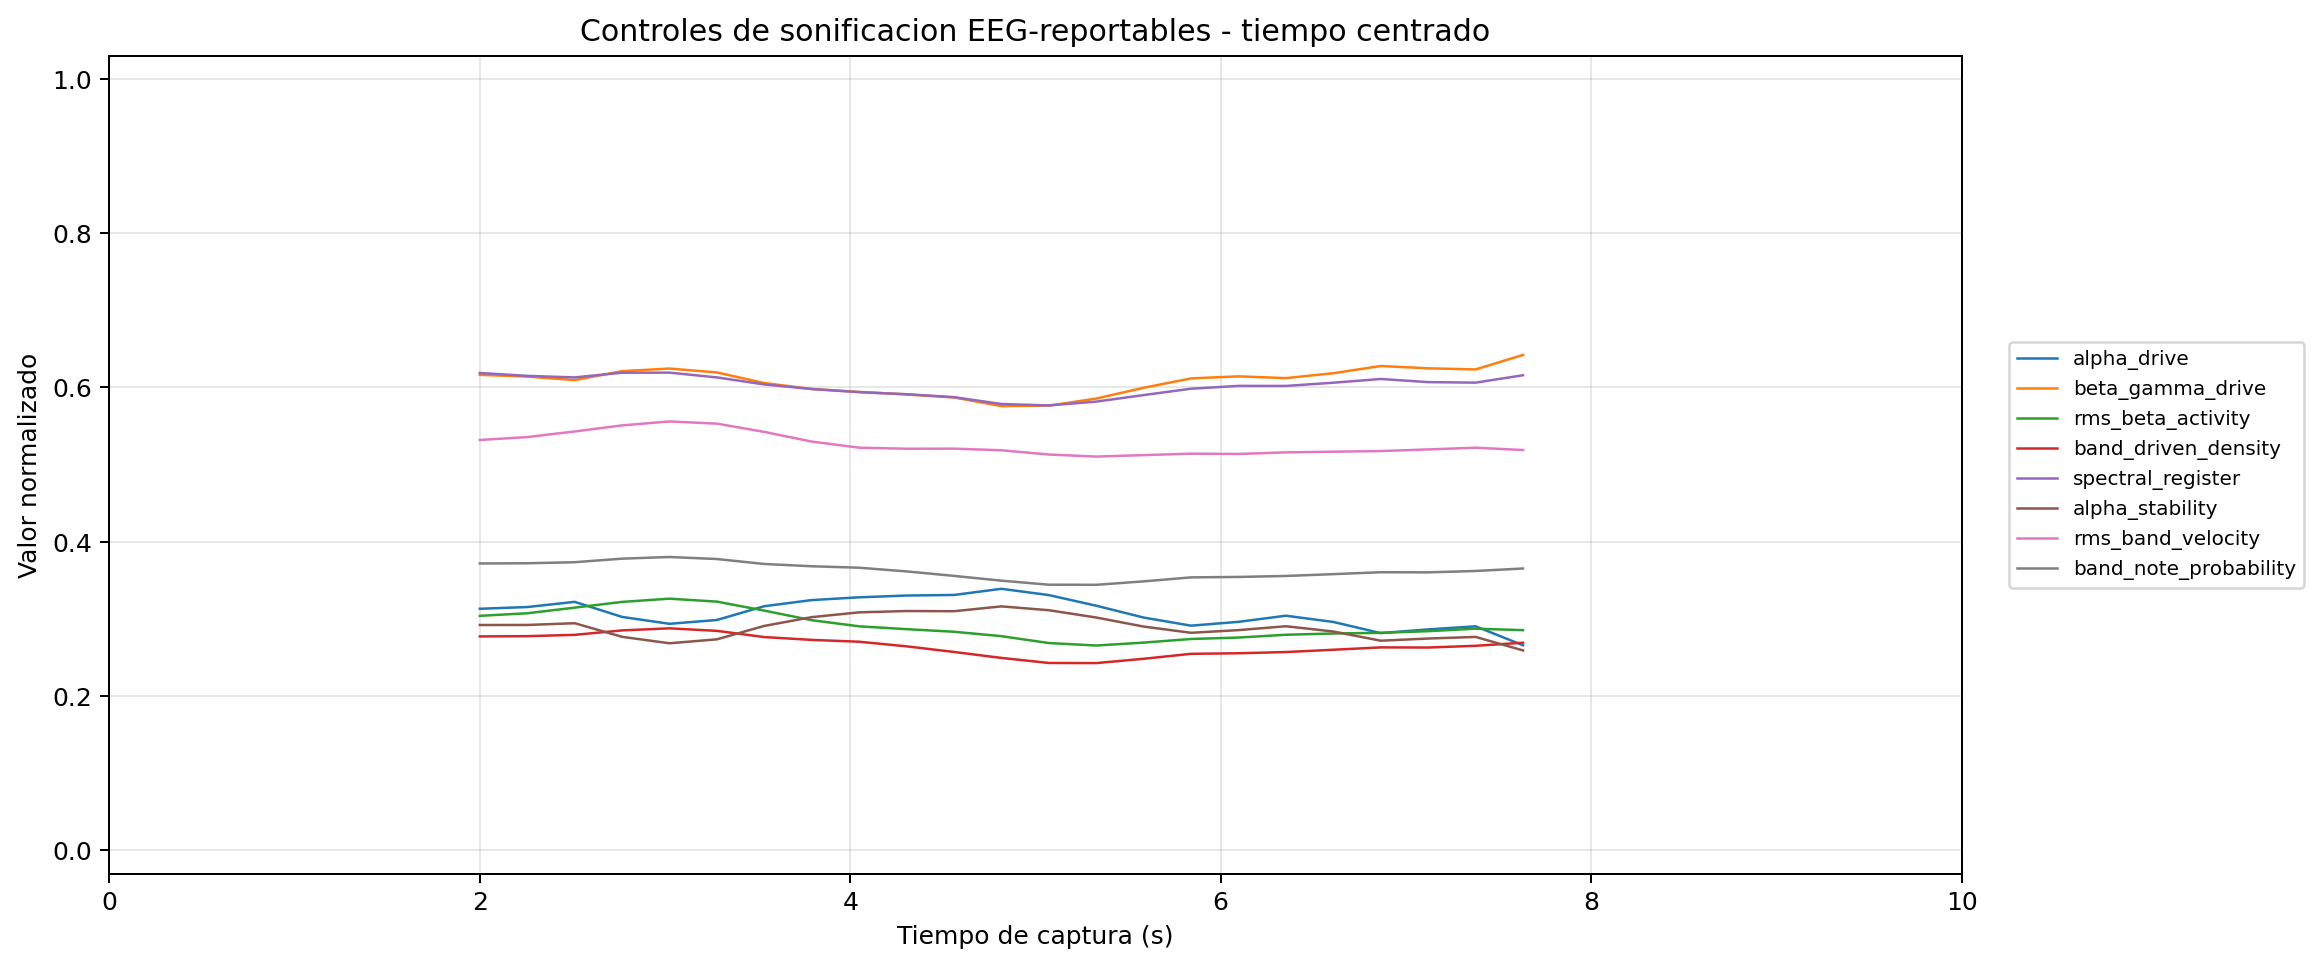
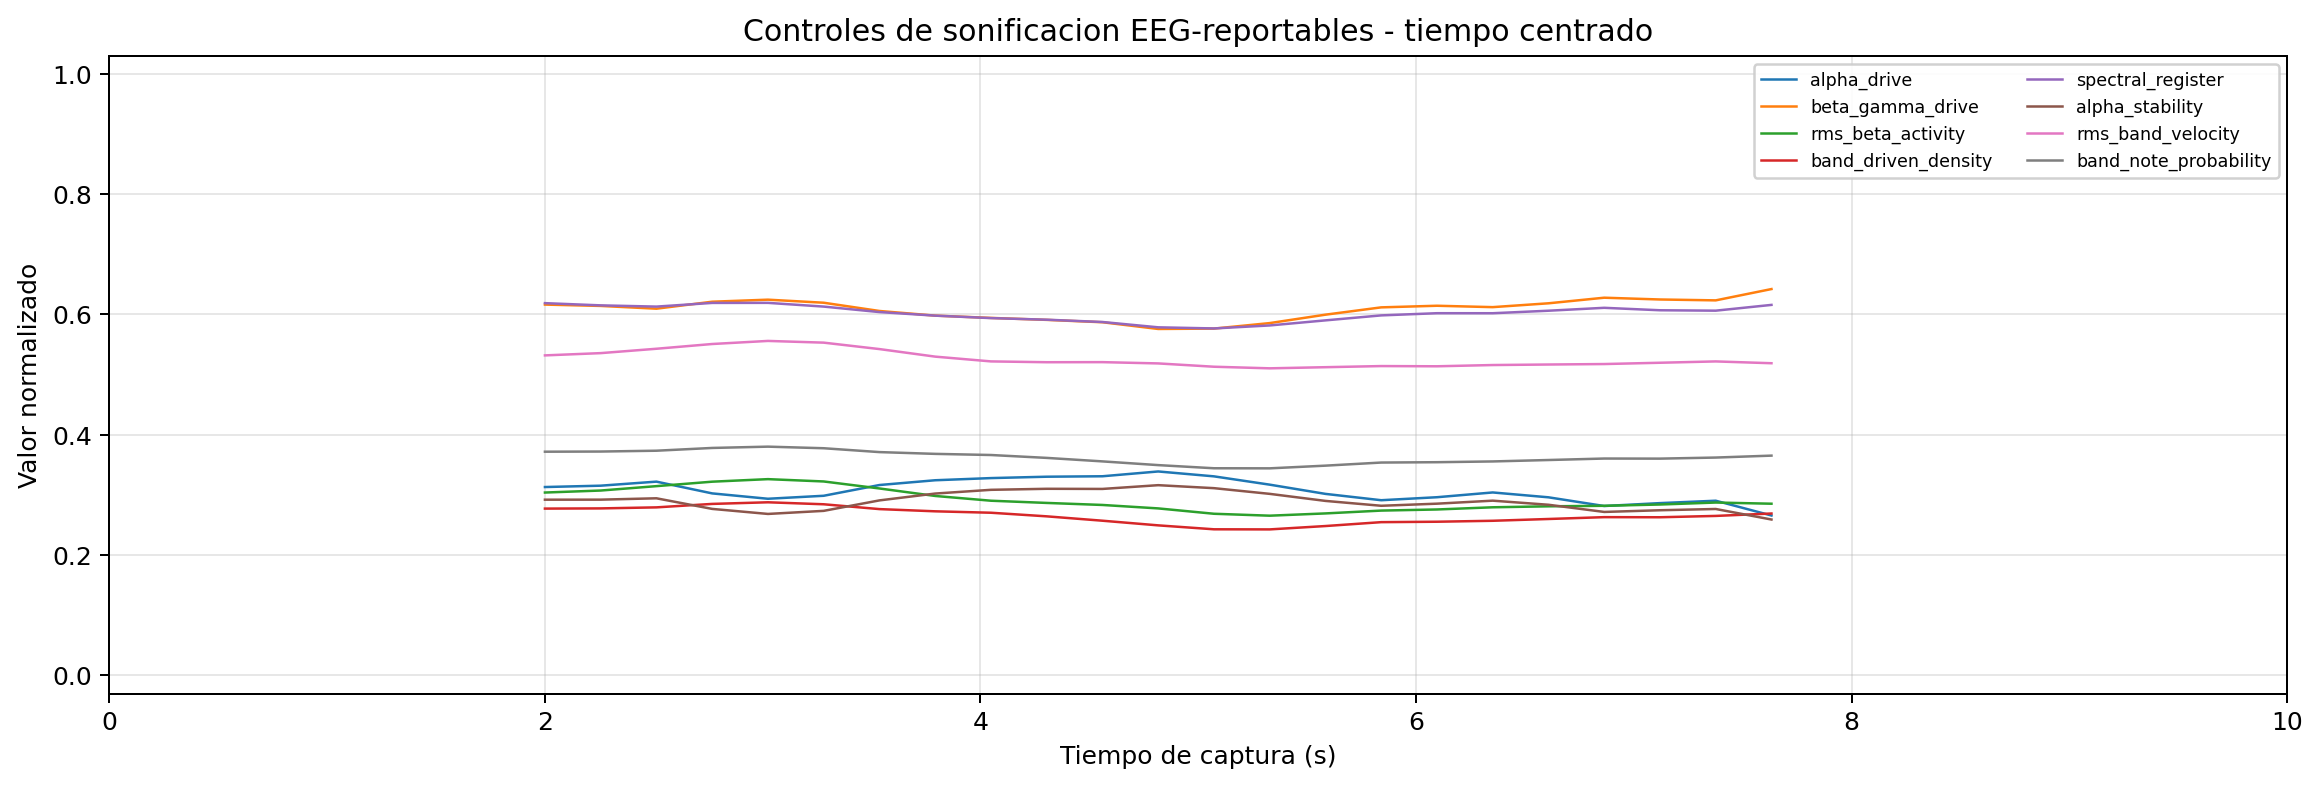
Regenerate final capture plots with signal quality figures

diff --git a/docs/validacion_tfg/capturas_finales_s01_20260528_matplotlib/20260528-145809_s01_20260528_ear_eeg_ch1_only_06_eyes_open_repeat_30s.md b/docs/validacion_tfg/capturas_finales_s01_20260528_matplotlib/20260528-145809_s01_20260528_ear_eeg_ch1_only_06_eyes_open_repeat_30s.md
@@ -1,4 +1,4 @@
-# Captura final: `eyes_open_repeat_30s`
+# Captura final: `eyes_open_repeat_30s`
 
 ## 1. Identificacion
 
@@ -25,13 +25,15 @@
 
 Nota: las figuras EEG temporales estandar usan escala fija `±400 uV` para facilitar la inspeccion visual. Los transitorios completos se conservan en las metricas de calidad y, cuando procede, en las figuras enhanced.
 
-![EEG temporal](../figures/capturas_finales_s01_20260528_matplotlib/20260528-145809_s01_20260528_ear_eeg_ch1_only_06_eyes_open_repeat_30s/eeg_ch1_temporal.png)
+![EEG temporal](docs/validacion_tfg/figures/capturas_finales_s01_20260528_matplotlib/20260528-145809_s01_20260528_ear_eeg_ch1_only_06_eyes_open_repeat_30s/eeg_ch1_temporal.png)
 
-![Bandpowers relativos](../figures/capturas_finales_s01_20260528_matplotlib/20260528-145809_s01_20260528_ear_eeg_ch1_only_06_eyes_open_repeat_30s/bandpowers_relativos.png)
+![Bandpowers relativos](docs/validacion_tfg/figures/capturas_finales_s01_20260528_matplotlib/20260528-145809_s01_20260528_ear_eeg_ch1_only_06_eyes_open_repeat_30s/bandpowers_relativos.png)
 
-![Controles de sonificacion](../figures/capturas_finales_s01_20260528_matplotlib/20260528-145809_s01_20260528_ear_eeg_ch1_only_06_eyes_open_repeat_30s/controles_sonificacion.png)
+![Controles de sonificacion](docs/validacion_tfg/figures/capturas_finales_s01_20260528_matplotlib/20260528-145809_s01_20260528_ear_eeg_ch1_only_06_eyes_open_repeat_30s/controles_sonificacion.png)
 
-![Notas musicales](../figures/capturas_finales_s01_20260528_matplotlib/20260528-145809_s01_20260528_ear_eeg_ch1_only_06_eyes_open_repeat_30s/notas_musicales.png)
+![Calidad de senal y gate](docs/validacion_tfg/figures/capturas_finales_s01_20260528_matplotlib/20260528-145809_s01_20260528_ear_eeg_ch1_only_06_eyes_open_repeat_30s/calidad_senal_quality_gate.png)
+
+![Notas musicales](docs/validacion_tfg/figures/capturas_finales_s01_20260528_matplotlib/20260528-145809_s01_20260528_ear_eeg_ch1_only_06_eyes_open_repeat_30s/notas_musicales.png)
 
 ## 4. Datos musicales
 
@@ -57,4 +59,3 @@ Nota: las figuras EEG temporales estandar usan escala fija `±400 uV` para facil
 ## 6. Interpretacion para el TFG
 
 Candidata principal de la sesion final por ser la condicion con mejor diagnostico automatico y sonificacion persistida. La figura combinada se conserva como PNG, pero este documento automatico evita repetirla porque las graficas ya aparecen por separado.
-

diff --git a/docs/validacion_tfg/capturas_finales_s01_20260528_matplotlib/20260528-145041_s01_20260528_ear_eeg_ch1_only_01_eyes_open_rest_60s.md b/docs/validacion_tfg/capturas_finales_s01_20260528_matplotlib/20260528-145041_s01_20260528_ear_eeg_ch1_only_01_eyes_open_rest_60s.md
@@ -1,4 +1,4 @@
-# Captura final: `eyes_open_rest_60s`
+# Captura final: `eyes_open_rest_60s`
 
 ## 1. Identificacion
 
@@ -25,13 +25,15 @@
 
 Nota: las figuras EEG temporales estandar usan escala fija `±400 uV` para facilitar la inspeccion visual. Los transitorios completos se conservan en las metricas de calidad y, cuando procede, en las figuras enhanced.
 
-![EEG temporal](../figures/capturas_finales_s01_20260528_matplotlib/20260528-145041_s01_20260528_ear_eeg_ch1_only_01_eyes_open_rest_60s/eeg_ch1_temporal.png)
+![EEG temporal](docs/validacion_tfg/figures/capturas_finales_s01_20260528_matplotlib/20260528-145041_s01_20260528_ear_eeg_ch1_only_01_eyes_open_rest_60s/eeg_ch1_temporal.png)
 
-![Bandpowers relativos](../figures/capturas_finales_s01_20260528_matplotlib/20260528-145041_s01_20260528_ear_eeg_ch1_only_01_eyes_open_rest_60s/bandpowers_relativos.png)
+![Bandpowers relativos](docs/validacion_tfg/figures/capturas_finales_s01_20260528_matplotlib/20260528-145041_s01_20260528_ear_eeg_ch1_only_01_eyes_open_rest_60s/bandpowers_relativos.png)
 
-![Controles de sonificacion](../figures/capturas_finales_s01_20260528_matplotlib/20260528-145041_s01_20260528_ear_eeg_ch1_only_01_eyes_open_rest_60s/controles_sonificacion.png)
+![Controles de sonificacion](docs/validacion_tfg/figures/capturas_finales_s01_20260528_matplotlib/20260528-145041_s01_20260528_ear_eeg_ch1_only_01_eyes_open_rest_60s/controles_sonificacion.png)
 
-![Notas musicales](../figures/capturas_finales_s01_20260528_matplotlib/20260528-145041_s01_20260528_ear_eeg_ch1_only_01_eyes_open_rest_60s/notas_musicales.png)
+![Calidad de senal y gate](docs/validacion_tfg/figures/capturas_finales_s01_20260528_matplotlib/20260528-145041_s01_20260528_ear_eeg_ch1_only_01_eyes_open_rest_60s/calidad_senal_quality_gate.png)
+
+![Notas musicales](docs/validacion_tfg/figures/capturas_finales_s01_20260528_matplotlib/20260528-145041_s01_20260528_ear_eeg_ch1_only_01_eyes_open_rest_60s/notas_musicales.png)
 
 ## 4. Datos musicales
 
@@ -57,4 +59,3 @@ Nota: las figuras EEG temporales estandar usan escala fija `±400 uV` para facil
 ## 6. Interpretacion para el TFG
 
 Contiene sonificacion valida y datos persistidos, pero tambien un artefacto transitorio de gran amplitud. Es util para explicar limitaciones reales de adquisicion.
-

diff --git a/docs/validacion_tfg/capturas_finales_s01_20260528_matplotlib/20260528-145635_s01_20260528_ear_eeg_ch1_only_04_blink_artifact_30s.md b/docs/validacion_tfg/capturas_finales_s01_20260528_matplotlib/20260528-145635_s01_20260528_ear_eeg_ch1_only_04_blink_artifact_30s.md
@@ -1,4 +1,4 @@
-# Captura final: `blink_artifact_30s`
+# Captura final: `blink_artifact_30s`
 
 ## 1. Identificacion
 
@@ -25,13 +25,15 @@
 
 Nota: las figuras EEG temporales estandar usan escala fija `±400 uV` para facilitar la inspeccion visual. Los transitorios completos se conservan en las metricas de calidad y, cuando procede, en las figuras enhanced.
 
-![EEG temporal](../figures/capturas_finales_s01_20260528_matplotlib/20260528-145635_s01_20260528_ear_eeg_ch1_only_04_blink_artifact_30s/eeg_ch1_temporal.png)
+![EEG temporal](docs/validacion_tfg/figures/capturas_finales_s01_20260528_matplotlib/20260528-145635_s01_20260528_ear_eeg_ch1_only_04_blink_artifact_30s/eeg_ch1_temporal.png)
 
-![Bandpowers relativos](../figures/capturas_finales_s01_20260528_matplotlib/20260528-145635_s01_20260528_ear_eeg_ch1_only_04_blink_artifact_30s/bandpowers_relativos.png)
+![Bandpowers relativos](docs/validacion_tfg/figures/capturas_finales_s01_20260528_matplotlib/20260528-145635_s01_20260528_ear_eeg_ch1_only_04_blink_artifact_30s/bandpowers_relativos.png)
 
-![Controles de sonificacion](../figures/capturas_finales_s01_20260528_matplotlib/20260528-145635_s01_20260528_ear_eeg_ch1_only_04_blink_artifact_30s/controles_sonificacion.png)
+![Controles de sonificacion](docs/validacion_tfg/figures/capturas_finales_s01_20260528_matplotlib/20260528-145635_s01_20260528_ear_eeg_ch1_only_04_blink_artifact_30s/controles_sonificacion.png)
 
-![Notas musicales](../figures/capturas_finales_s01_20260528_matplotlib/20260528-145635_s01_20260528_ear_eeg_ch1_only_04_blink_artifact_30s/notas_musicales.png)
+![Calidad de senal y gate](docs/validacion_tfg/figures/capturas_finales_s01_20260528_matplotlib/20260528-145635_s01_20260528_ear_eeg_ch1_only_04_blink_artifact_30s/calidad_senal_quality_gate.png)
+
+![Notas musicales](docs/validacion_tfg/figures/capturas_finales_s01_20260528_matplotlib/20260528-145635_s01_20260528_ear_eeg_ch1_only_04_blink_artifact_30s/notas_musicales.png)
 
 ## 4. Datos musicales
 
@@ -57,4 +59,3 @@ Nota: las figuras EEG temporales estandar usan escala fija `±400 uV` para facil
 ## 6. Interpretacion para el TFG
 
 Condicion de artefacto fisiologico. No se reporta como EEG limpio; se usa para mostrar respuesta del sistema ante contaminacion esperada por parpadeo.
-

diff --git a/docs/validacion_tfg/capturas_finales_s01_20260528_matplotlib/20260528-145251_s01_20260528_ear_eeg_ch1_only_02_eyes_closed_rest_60s.md b/docs/validacion_tfg/capturas_finales_s01_20260528_matplotlib/20260528-145251_s01_20260528_ear_eeg_ch1_only_02_eyes_closed_rest_60s.md
@@ -1,4 +1,4 @@
-# Captura final: `eyes_closed_rest_60s`
+# Captura final: `eyes_closed_rest_60s`
 
 ## 1. Identificacion
 
@@ -25,13 +25,15 @@
 
 Nota: las figuras EEG temporales estandar usan escala fija `±400 uV` para facilitar la inspeccion visual. Los transitorios completos se conservan en las metricas de calidad y, cuando procede, en las figuras enhanced.
 
-![EEG temporal](../figures/capturas_finales_s01_20260528_matplotlib/20260528-145251_s01_20260528_ear_eeg_ch1_only_02_eyes_closed_rest_60s/eeg_ch1_temporal.png)
+![EEG temporal](docs/validacion_tfg/figures/capturas_finales_s01_20260528_matplotlib/20260528-145251_s01_20260528_ear_eeg_ch1_only_02_eyes_closed_rest_60s/eeg_ch1_temporal.png)
 
-![Bandpowers relativos](../figures/capturas_finales_s01_20260528_matplotlib/20260528-145251_s01_20260528_ear_eeg_ch1_only_02_eyes_closed_rest_60s/bandpowers_relativos.png)
+![Bandpowers relativos](docs/validacion_tfg/figures/capturas_finales_s01_20260528_matplotlib/20260528-145251_s01_20260528_ear_eeg_ch1_only_02_eyes_closed_rest_60s/bandpowers_relativos.png)
 
-![Controles de sonificacion](../figures/capturas_finales_s01_20260528_matplotlib/20260528-145251_s01_20260528_ear_eeg_ch1_only_02_eyes_closed_rest_60s/controles_sonificacion.png)
+![Controles de sonificacion](docs/validacion_tfg/figures/capturas_finales_s01_20260528_matplotlib/20260528-145251_s01_20260528_ear_eeg_ch1_only_02_eyes_closed_rest_60s/controles_sonificacion.png)
 
-![Notas musicales](../figures/capturas_finales_s01_20260528_matplotlib/20260528-145251_s01_20260528_ear_eeg_ch1_only_02_eyes_closed_rest_60s/notas_musicales.png)
+![Calidad de senal y gate](docs/validacion_tfg/figures/capturas_finales_s01_20260528_matplotlib/20260528-145251_s01_20260528_ear_eeg_ch1_only_02_eyes_closed_rest_60s/calidad_senal_quality_gate.png)
+
+![Notas musicales](docs/validacion_tfg/figures/capturas_finales_s01_20260528_matplotlib/20260528-145251_s01_20260528_ear_eeg_ch1_only_02_eyes_closed_rest_60s/notas_musicales.png)
 
 ## 4. Datos musicales
 
@@ -57,4 +59,3 @@ Nota: las figuras EEG temporales estandar usan escala fija `±400 uV` para facil
 ## 6. Interpretacion para el TFG
 
 Condicion real de ojos cerrados; debe interpretarse con cautela por contaminacion de 50 Hz.
-

diff --git a/docs/validacion_tfg/capturas_finales_s01_20260528_matplotlib/20260528-145448_s01_20260528_ear_eeg_ch1_only_03_quiet_rest_60s.md b/docs/validacion_tfg/capturas_finales_s01_20260528_matplotlib/20260528-145448_s01_20260528_ear_eeg_ch1_only_03_quiet_rest_60s.md
@@ -1,4 +1,4 @@
-# Captura final: `quiet_rest_60s`
+# Captura final: `quiet_rest_60s`
 
 ## 1. Identificacion
 
@@ -25,13 +25,15 @@
 
 Nota: las figuras EEG temporales estandar usan escala fija `±400 uV` para facilitar la inspeccion visual. Los transitorios completos se conservan en las metricas de calidad y, cuando procede, en las figuras enhanced.
 
-![EEG temporal](../figures/capturas_finales_s01_20260528_matplotlib/20260528-145448_s01_20260528_ear_eeg_ch1_only_03_quiet_rest_60s/eeg_ch1_temporal.png)
+![EEG temporal](docs/validacion_tfg/figures/capturas_finales_s01_20260528_matplotlib/20260528-145448_s01_20260528_ear_eeg_ch1_only_03_quiet_rest_60s/eeg_ch1_temporal.png)
 
-![Bandpowers relativos](../figures/capturas_finales_s01_20260528_matplotlib/20260528-145448_s01_20260528_ear_eeg_ch1_only_03_quiet_rest_60s/bandpowers_relativos.png)
+![Bandpowers relativos](docs/validacion_tfg/figures/capturas_finales_s01_20260528_matplotlib/20260528-145448_s01_20260528_ear_eeg_ch1_only_03_quiet_rest_60s/bandpowers_relativos.png)
 
-![Controles de sonificacion](../figures/capturas_finales_s01_20260528_matplotlib/20260528-145448_s01_20260528_ear_eeg_ch1_only_03_quiet_rest_60s/controles_sonificacion.png)
+![Controles de sonificacion](docs/validacion_tfg/figures/capturas_finales_s01_20260528_matplotlib/20260528-145448_s01_20260528_ear_eeg_ch1_only_03_quiet_rest_60s/controles_sonificacion.png)
 
-![Notas musicales](../figures/capturas_finales_s01_20260528_matplotlib/20260528-145448_s01_20260528_ear_eeg_ch1_only_03_quiet_rest_60s/notas_musicales.png)
+![Calidad de senal y gate](docs/validacion_tfg/figures/capturas_finales_s01_20260528_matplotlib/20260528-145448_s01_20260528_ear_eeg_ch1_only_03_quiet_rest_60s/calidad_senal_quality_gate.png)
+
+![Notas musicales](docs/validacion_tfg/figures/capturas_finales_s01_20260528_matplotlib/20260528-145448_s01_20260528_ear_eeg_ch1_only_03_quiet_rest_60s/notas_musicales.png)
 
 ## 4. Datos musicales
 
@@ -57,4 +59,3 @@ Nota: las figuras EEG temporales estandar usan escala fija `±400 uV` para facil
 ## 6. Interpretacion para el TFG
 
 Reposo general con sonificacion registrada; interpretacion fisiologica matizada por ruido y variabilidad de amplitud.
-

diff --git a/docs/validacion_tfg/capturas_finales_s01_20260528_matplotlib/README.md b/docs/validacion_tfg/capturas_finales_s01_20260528_matplotlib/README.md
@@ -1,12 +1,13 @@
-# Documentacion matplotlib de capturas finales s01 20260528
+# Documentacion matplotlib de capturas finales s01 20260528
 
 Figuras generadas con matplotlib a partir de la sesion real reportada en el TFG.
 
 Criterios de representacion aplicados:
 
 - EEG temporal estandar con escala fija `±400 uV` para evitar que transitorios grandes oculten la dinamica util.
-- Bandpowers y controles de sonificacion con tiempo centrado en la ventana y eje X alineado con la duracion total de la captura.
+- Bandpowers, controles de sonificacion y calidad con tiempo centrado en la ventana y eje X alineado con la duracion total de la captura.
 - La figura combinada se conserva como PNG en la carpeta de figuras, pero no se inserta en los Markdown automaticos para evitar duplicacion visual.
+- Las graficas de controles de sonificacion usan leyenda interna en esquina superior derecha, igual que las graficas de bandpowers, para mantener el mismo tamano de imagen.
 
 | Captura | Condicion | Documento |
 | --- | --- | --- |
@@ -17,4 +18,3 @@ Criterios de representacion aplicados:
 | `20260528-145448_s01_20260528_ear_eeg_ch1_only_03_quiet_rest_60s` | `quiet_rest_60s` | [`20260528-145448_s01_20260528_ear_eeg_ch1_only_03_quiet_rest_60s.md`](20260528-145448_s01_20260528_ear_eeg_ch1_only_03_quiet_rest_60s.md) |
 | `20260528-145635_s01_20260528_ear_eeg_ch1_only_04_blink_artifact_30s` | `blink_artifact_30s` | [`20260528-145635_s01_20260528_ear_eeg_ch1_only_04_blink_artifact_30s.md`](20260528-145635_s01_20260528_ear_eeg_ch1_only_04_blink_artifact_30s.md) |
 | `20260528-145809_s01_20260528_ear_eeg_ch1_only_06_eyes_open_repeat_30s` | `eyes_open_repeat_30s` | [`20260528-145809_s01_20260528_ear_eeg_ch1_only_06_eyes_open_repeat_30s.md`](20260528-145809_s01_20260528_ear_eeg_ch1_only_06_eyes_open_repeat_30s.md) |
-

diff --git a/docs/validacion_tfg/capturas_finales_s01_20260528_matplotlib/20260528-144607_s01_20260528_ear_eeg_ch1_only_00_precheck_10s.md b/docs/validacion_tfg/capturas_finales_s01_20260528_matplotlib/20260528-144607_s01_20260528_ear_eeg_ch1_only_00_precheck_10s.md
@@ -1,4 +1,4 @@
-# Captura final: `precheck_10s`
+# Captura final: `precheck_10s`
 
 ## 1. Identificacion
 
@@ -25,7 +25,7 @@
 
 Nota: las figuras EEG temporales estandar usan escala fija `±400 uV` para facilitar la inspeccion visual. Los transitorios completos se conservan en las metricas de calidad y, cuando procede, en las figuras enhanced.
 
-![EEG temporal](../figures/capturas_finales_s01_20260528_matplotlib/20260528-144607_s01_20260528_ear_eeg_ch1_only_00_precheck_10s/eeg_ch1_temporal.png)
+![EEG temporal](docs/validacion_tfg/figures/capturas_finales_s01_20260528_matplotlib/20260528-144607_s01_20260528_ear_eeg_ch1_only_00_precheck_10s/eeg_ch1_temporal.png)
 
 ## 4. Datos musicales
 
@@ -51,4 +51,3 @@ Nota: las figuras EEG temporales estandar usan escala fija `±400 uV` para facil
 ## 6. Interpretacion para el TFG
 
 Captura conservada como trazabilidad tecnica de la sesion final.
-

diff --git a/docs/validacion_tfg/capturas_finales_s01_20260528_matplotlib/20260528-144705_s01_20260528_ear_eeg_ch1_only_00_precheck_10s.md b/docs/validacion_tfg/capturas_finales_s01_20260528_matplotlib/20260528-144705_s01_20260528_ear_eeg_ch1_only_00_precheck_10s.md
@@ -1,4 +1,4 @@
-# Captura final: `precheck_10s`
+# Captura final: `precheck_10s`
 
 ## 1. Identificacion
 
@@ -25,7 +25,7 @@
 
 Nota: las figuras EEG temporales estandar usan escala fija `±400 uV` para facilitar la inspeccion visual. Los transitorios completos se conservan en las metricas de calidad y, cuando procede, en las figuras enhanced.
 
-![EEG temporal](../figures/capturas_finales_s01_20260528_matplotlib/20260528-144705_s01_20260528_ear_eeg_ch1_only_00_precheck_10s/eeg_ch1_temporal.png)
+![EEG temporal](docs/validacion_tfg/figures/capturas_finales_s01_20260528_matplotlib/20260528-144705_s01_20260528_ear_eeg_ch1_only_00_precheck_10s/eeg_ch1_temporal.png)
 
 ## 4. Datos musicales
 
@@ -51,4 +51,3 @@ Nota: las figuras EEG temporales estandar usan escala fija `±400 uV` para facil
 ## 6. Interpretacion para el TFG
 
 Captura conservada como trazabilidad tecnica de la sesion final.
-
